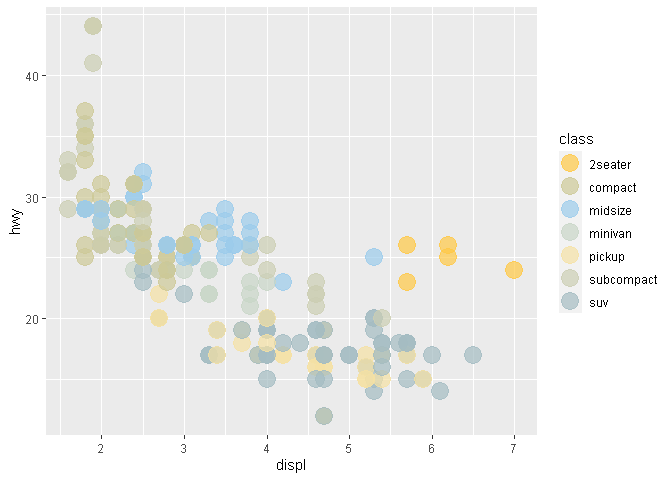
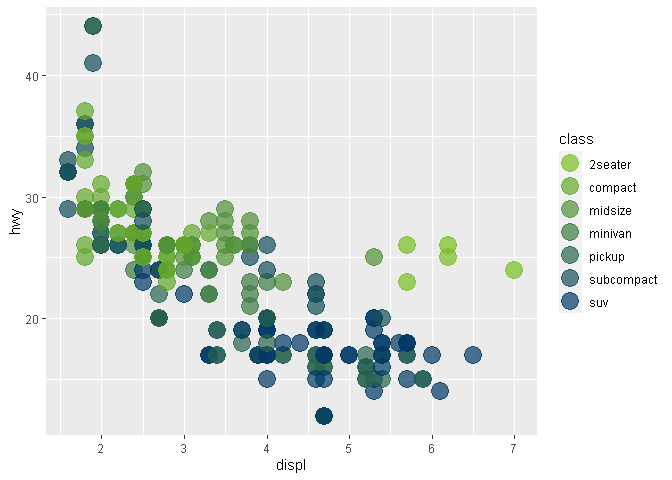
add primary plot

diff --git a/README.md b/README.md
@@ -15,7 +15,7 @@ To install `mncolors` from github:
 # First install the 'devtools' package
 library(devtools)
 
-install_github("MPCA-data/mncolors")
+remotes::install_github("MPCA-data/mncolors")
 ```
 
 ## The Palettes
@@ -42,23 +42,34 @@ In a ggplot use the MN palettes with the `scale_fill_mn()` and
 library(mncolors)
 library(ggplot2)
 
+# Primary
 ggplot(data = mpg) +   
    geom_point(aes(x = displ, y = hwy, color = class), size = 6, alpha = 0.7) +
-   scale_color_mn(palette = "extended", reverse = TRUE)
+   scale_color_mn(palette = "primary", reverse = TRUE)
 ```
 
 ![](README_files/figure-gfm/unnamed-chunk-3-1.png)<!-- -->
 
 ``` r
+# Extended
+ggplot(data = mpg) +   
+   geom_point(aes(x = displ, y = hwy, color = class), size = 6, alpha = 0.7) +
+   scale_color_mn(palette = "extended")
+```
+
+![](README_files/figure-gfm/unnamed-chunk-3-2.png)<!-- -->
+
+``` r
+# Accent
 ggplot(diamonds) + 
   geom_bar(aes(x = cut, fill = clarity)) +
   scale_fill_mn(palette = "accent")
 ```
 
-![](README_files/figure-gfm/unnamed-chunk-3-2.png)<!-- -->
+![](README_files/figure-gfm/unnamed-chunk-3-3.png)<!-- -->
 
-Alternatively, use`mncolors(palette = "...")` to feed MN colors to the
-default ggplot functions.
+Alternatively, use`mncolors()` to feed MN colors to the default ggplot
+functions.
 
 ``` r
 library(ggplot2)
@@ -76,6 +87,8 @@ ggplot(dat, aes(x = x, y = y)) +
 ![](README_files/figure-gfm/unnamed-chunk-4-1.png)<!-- -->
 
 ## Lots of colors\!
+
+Enter any number you want to `mncolors()` to return a bucket of colors.
 
 ``` r
 mncolors(10, "blue")
